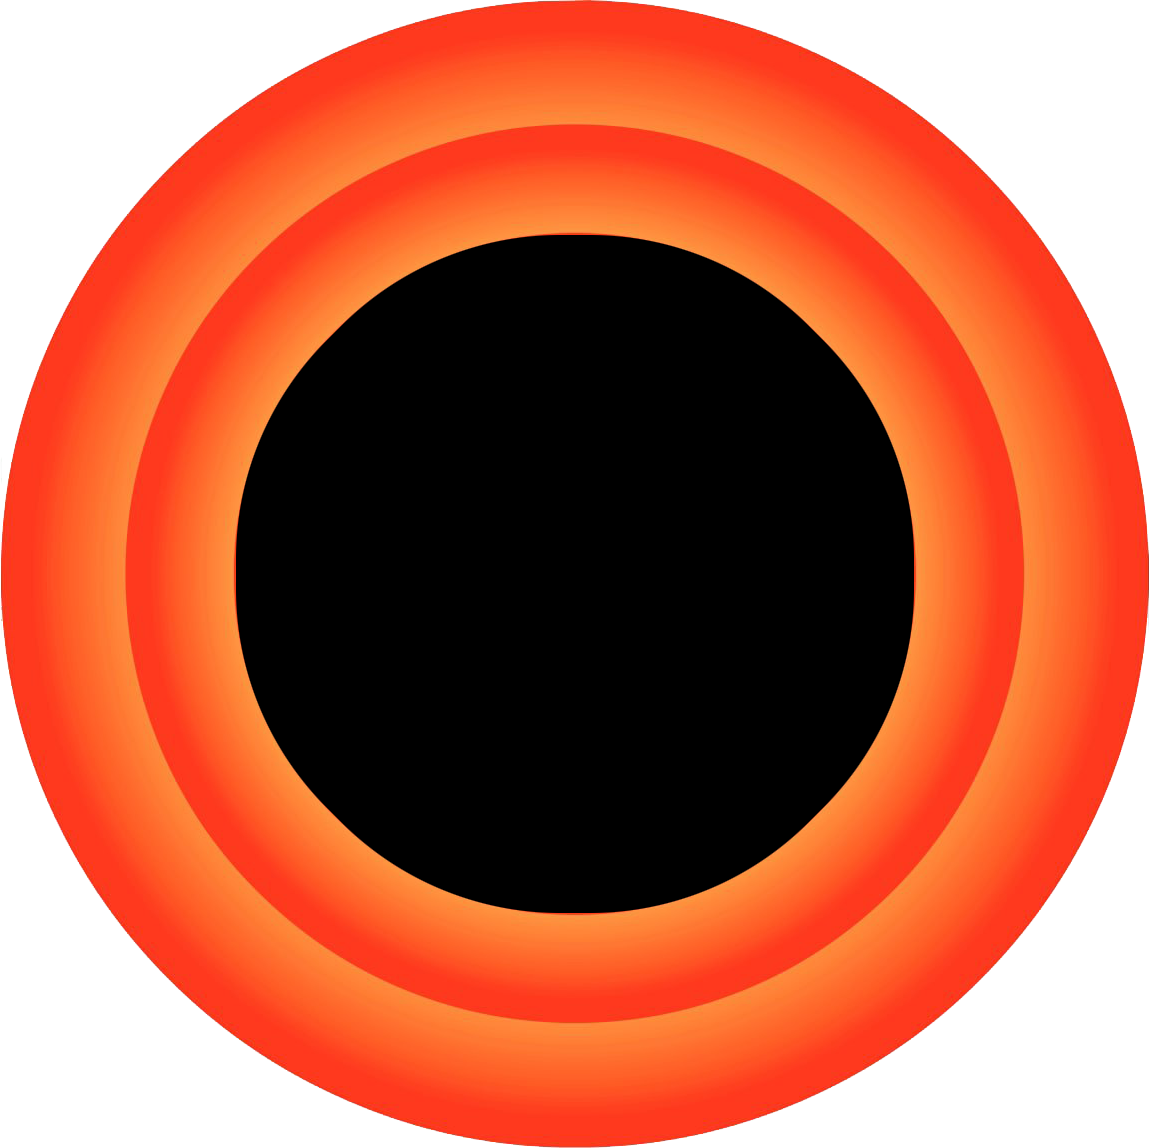
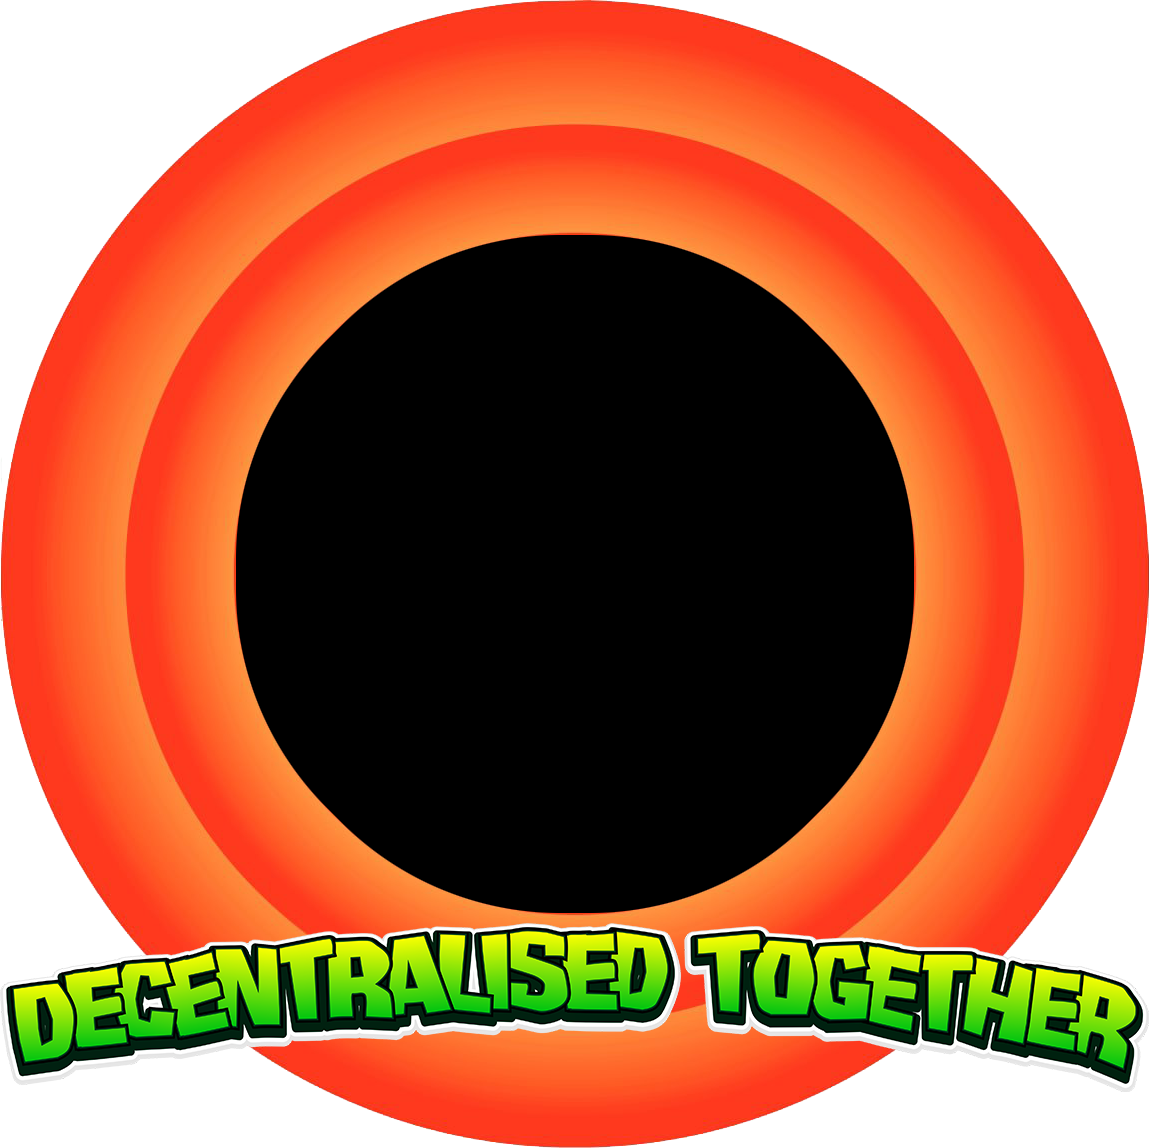
Added subheading above fold as styled image

Changed region(s): [[0.0, 0.7927, 1.0, 0.9451]]

diff --git a/src/styles/global.css b/src/styles/global.css
@@ -41,15 +41,6 @@ body {
     }
 }
 
-@keyframes cloudfade {
-    10% {
-        opacity: 0;
-    }
-    100% {
-        opacity: 1;
-    }
-}
-
 .strobe-1 {
     animation: strobeflash 1s linear infinite;
 }
@@ -71,41 +62,4 @@ body {
     100% {
         opacity: 0;
     }
-}
-
-.metal {
-  position: relative;
-  margin: 40px auto;
-  outline: none;
-
-  font: bold 6em/2em "Helvetica Neue", Arial, Helvetica, Geneva, sans-serif;
-  text-align: center;
-  color: hsla(0,0%,20%,1);
-  text-shadow: hsla(0,0%,40%,.5) 0 -1px 0, hsla(0,0%,100%,.6) 0 2px 1px;
-
-  background-color: hsl(0,0%,90%);
-  box-shadow: inset hsla(0,0%,15%,  1) 0  0px 0px 4px, /* border */
-    inset hsla(0,0%,15%, .8) 0 -1px 5px 4px, /* soft SD */
-    inset hsla(0,0%,0%, .25) 0 -1px 0px 7px, /* bottom SD */
-    inset hsla(0,0%,100%,.7) 0  2px 1px 7px, /* top HL */
-
-    hsla(0,0%, 0%,.15) 0 -5px 6px 4px, /* outer SD */
-    hsla(0,0%,100%,.5) 0  5px 6px 4px; /* outer HL */
-
-  transition: color .2s;
-}
-
-.metal.linear {
-  width: 100px;
-  font-size: 4em;
-  height: 80px;
-  border-radius: .5em;
-  background-image: -webkit-repeating-linear-gradient(left, hsla(0,0%,100%,0) 0%, hsla(0,0%,100%,0)   6%, hsla(0,0%,100%, .1) 7.5%),
-    -webkit-repeating-linear-gradient(left, hsla(0,0%,  0%,0) 0%, hsla(0,0%,  0%,0)   4%, hsla(0,0%,  0%,.03) 4.5%),
-    -webkit-repeating-linear-gradient(left, hsla(0,0%,100%,0) 0%, hsla(0,0%,100%,0) 1.2%, hsla(0,0%,100%,.15) 2.2%),
-
-    linear-gradient(180deg, hsl(0,0%,78%)  0%,
-    hsl(0,0%,90%) 47%,
-    hsl(0,0%,78%) 53%,
-    hsl(0,0%,70%)100%);
 }

diff --git a/src/pages/index.js b/src/pages/index.js
@@ -68,7 +68,6 @@ function IndexPage(){
                 <div className="flex items-center justify-center -translate-y-[20px]">
                     <img src={NeonSign} alt="Neon sign for X-Toonz club" width="280" className="neon-sign hidden lg:block" />
                 </div>
-                <h2 className="text-2xl text-center text-white font-caslon">Decentralised Together.</h2>
             </div>
             <div className="absolute bottom-0 left-1/2 -translate-x-1/2 -translate-y-1/4 text-white text-3xl">
                 <p className="font-caslon">The luxuries of an exclusive private club.<br/>
@@ -82,7 +81,6 @@ function IndexPage(){
                 <div className="w-full">
                     <StaticImage src="../images/red-circles-with-sign.png" alt="Red circle background" className="object-cover z-0" />
                 </div>
-                <h2 className="text-3xl text-center text-white font-caslon">Decentralisation Together.</h2>
             </div>
             <div className="text-white text-3xl">
                 <p className="font-caslon">The luxuries of an exclusive private club.<br/>
